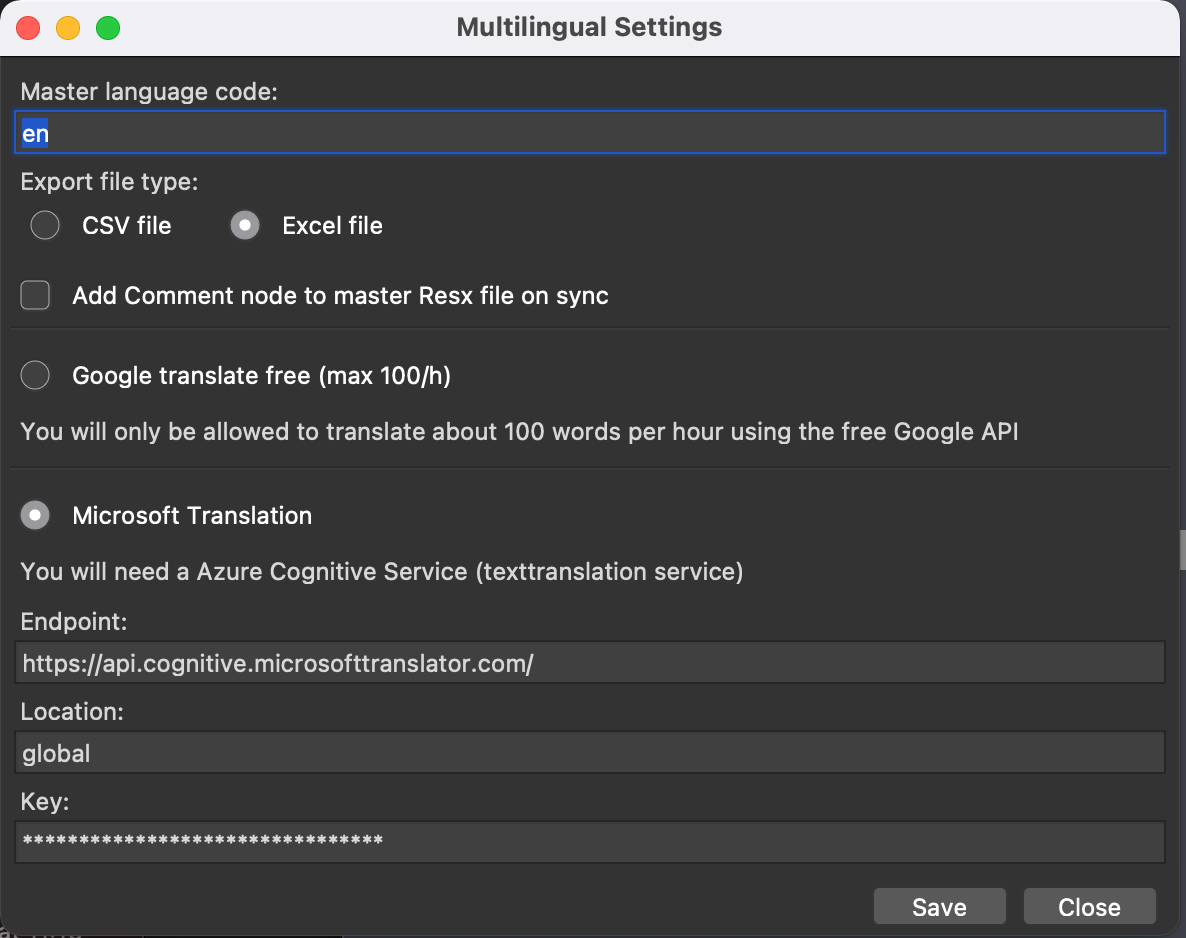
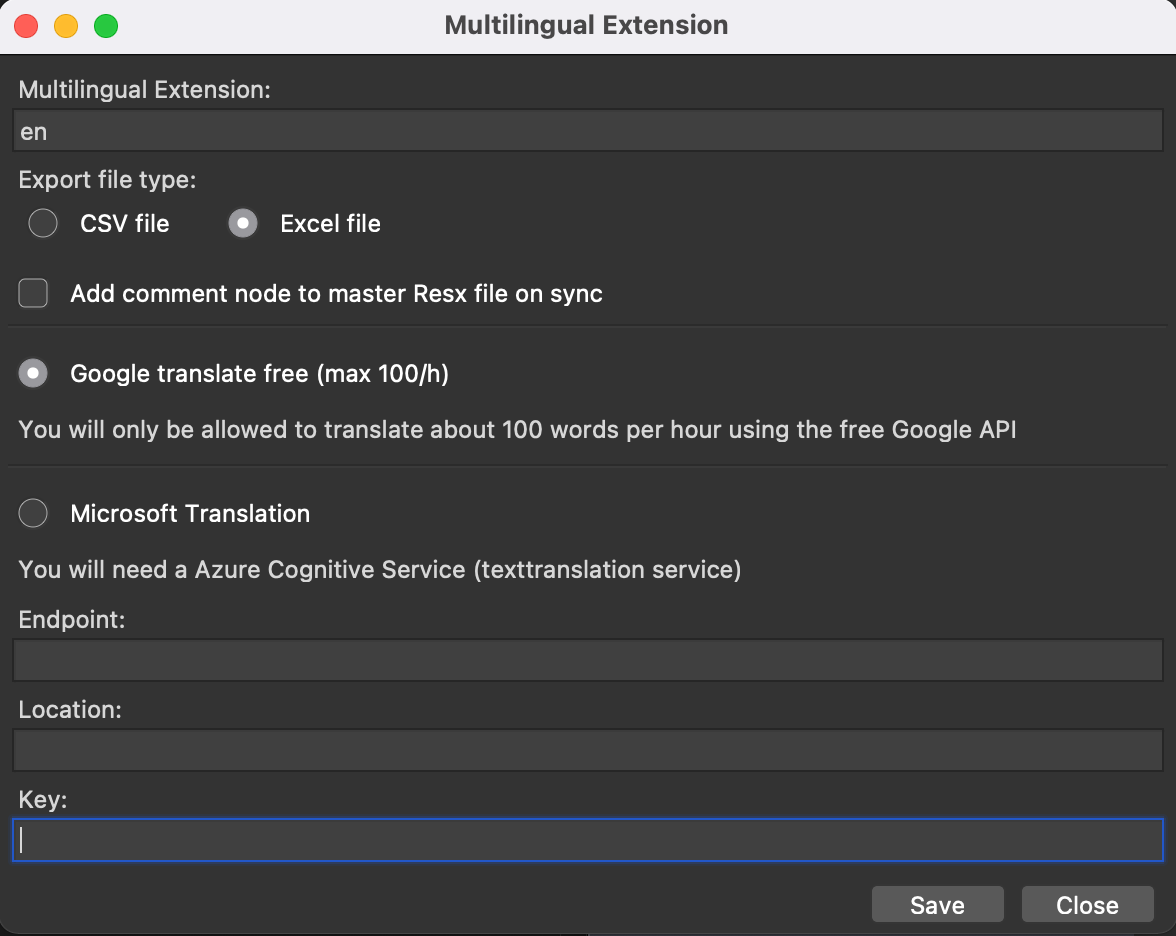
blog update

diff --git a/multilingual_extension/index.html b/multilingual_extension/index.html
@@ -11,7 +11,7 @@
     <link rel="canonical" href="https://joacimwall.github.io/multilingual_extension/">
     <link rel="shortcut icon" href="../img/favicon.ico">
     <meta name="viewport" content="width=device-width, initial-scale=1.0, maximum-scale=1.0, user-scalable=0" />
-    <title>Multilingual extension - Joacim Wall Developer Blog</title>
+    <title>Using multilingual extension in Xamarin - Joacim Wall Developer Blog</title>
     <link href="../css/bootstrap-3.3.7.min.css" rel="stylesheet">
     <link href="../css/font-awesome-4.7.0.css" rel="stylesheet">
     <link href="../css/base.css" rel="stylesheet">
@@ -32,7 +32,14 @@
       var is_top_frame = false;
         
         var pageToc = [
-          {title: "Simplify translation by using the Multilingual Extension", url: "#_top", children: [
+          {title: "Simplify translation management by using the Multilingual Extension", url: "#_top", children: [
+              {title: "Install the extension", url: "#install-the-extension" },
+              {title: "Setting the preferred property's for the extension.", url: "#setting-the-preferred-propertys-for-the-extension" },
+              {title: "Adding a new translation and synchronize", url: "#adding-a-new-translation-and-synchronize" },
+              {title: "Translate your resource files", url: "#translate-your-resource-files" },
+              {title: "Export your language files to external stakeholders", url: "#export-your-language-files-to-external-stakeholders" },
+              {title: "Import translations", url: "#import-translations" },
+              {title: "Changing existing translations", url: "#changing-existing-translations" },
           ]},
         ];
 
@@ -52,12 +59,104 @@ if (is_top_frame) { $('body').addClass('wm-top-page'); }
     
 
     
+    
+      
+    
 
-    <h2 id="simplify-translation-by-using-the-multilingual-extension">Simplify translation by using the Multilingual Extension</h2>
+  <div class="row wm-article-nav-buttons" role="navigation" aria-label="navigation">
+    
+    <div class="wm-article-nav">
+      <a href="../multilingual_support/" class="btn btn-xs btn-default pull-left">
+        <i class="fa fa-chevron-left" aria-hidden="true"></i>
+        Previous</a><a href="../multilingual_support/" class="btn btn-xs btn-link">
+        Add multilingual support to Xamarin
+      </a>
+    </div>
+    
+  </div>
+
+    
+
+    <h2 id="simplify-translation-management-by-using-the-multilingual-extension">Simplify translation management by using the Multilingual Extension</h2>
 <p>In this previous article <a href="https://joacimwall.github.io/#multilingual_support/">Add multilingual support to Xamarin</a> I show you how to add multilingual support to a Xamarin forms project. In this article I will show you how to use the <a href="https://github.com/JoacimWall/Visual-studio-multilingual-extension">Multilingual Extension</a> for simplify the synchronization from the master file to different language files. </p>
+<p><a href="https://github.com/JoacimWall/Blog_Samples/tree/main/Add%20multilingual%20support%20to%20Xamarin">Source code of Demo</a></p>
+<p>We are going to use this extension to simplify ans solve four main problem.<br />
+ * Synchronization of Resx files<br />
+ * Translation of texts by Google translate or Microsoft translate<br />
+ * Export of translations into csv or xlsx file for final translation by external stakeholder<br />
+ * Import of final translations from external stakholder  </p>
+<p>We will continue whit the same project as we started with in the previous article <a href="https://joacimwall.github.io/#multilingual_support/">Add multilingual support to Xamarin</a></p>
+<p><a href="https://github.com/JoacimWall/Blog_Samples/tree/main/Add%20multilingual%20support%20to%20Xamarin">Source code of Demo</a></p>
+<h3 id="install-the-extension">Install the extension</h3>
+<p>First we need to install the extension. below you will find the instructions for the different platforms. Remember to restart you visual studio after install for the extension to load.  </p>
+<h4 id="install-for-mac">Install for Mac</h4>
+<p>The Visual studio for Mac team has closed the signup for new developers to publish extensions. So you need to download the latest release from this page then go to visual studio mac and click "install from file" in the Exstension Mananger.<br />
+<a href="https://github.com/JoacimWall/Visual-studio-multilingual-extension/releases">Latest release</a></p>
+<h4 id="install-for-windows">Install for Windows</h4>
+<p>Go to Extension Manager and search for Multilingual Extension or Walltec and you will find it or use the link below. <br />
+<a href="https://marketplace.visualstudio.com/items?itemName=Walltec.MultilingualExtension">Multilingual extension</a></p>
+<h3 id="setting-the-preferred-propertys-for-the-extension">Setting the preferred property's for the extension.</h3>
+<p>Select tools/multilingual settings in visual studio <br />
+By default, this extension use Google's free translation lets keep that for now.  <br />
+This is limited to only 100 translations per hour. <br />
+In this dialog you can also change the master language that is 'en' by default.<br />
+Here should you also select your preferred export format, csv or xslt.<br />
+If you also want to handle the status for the texts in the master resx file, check the 'Add Comment node to master Resx file on sync' in settings dialog.</p>
+<p><img width=“150” height="400" src="https://joacimwall.github.io/img/multilingual_extension/MultilingualSettingsDialog.png"></p>
+<h3 id="adding-a-new-translation-and-synchronize">Adding a new translation and synchronize</h3>
+<p>There are two ways to sync the resx files. 
+ Right-click the master file and select "Sync all .xx-x.resx files with this". Then all files that are in the same folder and follow the naming standard .xx-xx.resx  will be synchronized with the master file or,<br />
+Right-click one of the language files (AppResources.fr-FR.resx) and select "Sync this .xx-x.resx file". This file will then be synchronized with the master file. </p>
+<p><img width=“100” height="400" src="https://joacimwall.github.io/img/multilingual_extension/SyncAllFilePopUpDialog.png">
+<img width=“100” height="400" src="https://joacimwall.github.io/img/multilingual_extension/SyncFilePopUpDialog.png"></p>
+<p>the synchronization will not only add translations to the language files it will also remove translation that are not present in the master file.</p>
+<p>So lets add a new translation "HTML is funny" into the master file this is easy done by just copy/past the last datanode from master file and change the name attribute and the value in the value filed. <br />
+Now Right-click the master file and select "Sync all .xx-x.resx files with this".  </p>
+<p><img alt="Screenshot" src="../img/multilingual_extension/add_new_data_node.png" />  </p>
+<p>Open the AppResources.fr-FR.resx and AppResources.es-ES.resx and scroll down and you will see that the sentence has bin added to these files. You will also see that the text is not translated yet and there is comment that has the value "New" on the node named HTML_Is_Funny and the node C_Sharp_Is_Love comment has value Final. The extension use the comment filed to track the status of the translation. The translation can have three different status that it can have in it's comment field.   </p>
+<p>New: The row will get this status after first synchronization. If the data row not exist in the target file. if the translation already exists then it gets the status "final" this is so you can start using this extension if you already have translation files that are translated.</p>
+<p>Need review: This status will it get after translation from one of the translation services.</p>
+<p>Final: This status will it get after import from csv/xslt file where the status column bin changed to final. You can also set this status in the target file if you don't want the row to be exported to external stakeholder for translation.</p>
+<p><img alt="Screenshot" src="../img/multilingual_extension/synced_file_sample.png" /></p>
+<h3 id="translate-your-resource-files">Translate your resource files</h3>
+<p>Now we would like to translate to different sentences you have added to your language files.  There are two ways to translate the resx files.
+Right-click the master file and select "Translate all .xx-x.resx files" Then all the language files will be Translated or Right-click one of the language files (AppResources.fr-FR.resx) and select "Translate this .xx-x.resx file".</p>
+<p>The extension will only translate values that has comment value set to "New". 
+After this your language files comment filed should changed from "New" to "Need review".   </p>
+<p><img width=“100” height="400" src="https://joacimwall.github.io/img/multilingual_extension/TranslateAllFilePopUpDialog.png">
+<img width=“100” height="400" src="https://joacimwall.github.io/img/multilingual_extension/TranslateFilePopUpDialog.png"></p>
+<h3 id="export-your-language-files-to-external-stakeholders">Export your language files to external stakeholders</h3>
+<p>If you now want to send the files to someone that not a developer you can export to Excel or Csv so they can validate the translations and change the comment value to "Final" so you can import the new/validated translation.  </p>
+<p>This is done by Right-click the master file and select "Export all .xx-xx.resx files". Then all files that are in the same folder and follow the naming standard .xx-xx.resx will be processed and all rows with status 'New' or 'Need review' will be exported. </p>
+<p>This will result in new Excel files in same folder as the resx files.  The stakeholder can now change the status to "Final" if all is correct or change the TargetLanguage and status to "Final" and tha translation will be update when you import the file.<br />
+<img alt="Screenshot" src="../img/multilingual_extension/Excel_export.png" /></p>
+<h3 id="import-translations">Import translations</h3>
+<p>When you get your translations files back from your stakeholders you just copy them to the same folder as the resx files and check that the users not have change de name of the files. Then you Right-click the Excel file and select  "Import Translation" and the file will get imported and the corresponding resx file will be updated.  </p>
+<h3 id="changing-existing-translations">Changing existing translations</h3>
+<p>If you change the text in an existing node or add a new node in the Master resx file and want to sync and translate this to all the language files. Right click somewhere on the data name = 'xxxxx' node and select "Sync and translate this node in all .xx-xx.resx files". This will translate this node in all language files and change status to "Need review". This feature is only implemented on mac in current version of the extension.           <br />
+<img alt="Screenshot" src="../img/multilingual_extension/SyncAndTranslateThisNode.png" /></p>
+<p>Thanks Joacim Wall  </p>
+<p><a href="https://github.com/JoacimWall/Blog_Samples/tree/main/Add%20multilingual%20support%20to%20Xamarin">Source code of Demo</a></p>
 
   <br>
     
+
+    
+    
+      
+    
+
+  <div class="row wm-article-nav-buttons" role="navigation" aria-label="navigation">
+    
+    <div class="wm-article-nav">
+      <a href="../multilingual_support/" class="btn btn-xs btn-default pull-left">
+        <i class="fa fa-chevron-left" aria-hidden="true"></i>
+        Previous</a><a href="../multilingual_support/" class="btn btn-xs btn-link">
+        Add multilingual support to Xamarin
+      </a>
+    </div>
+    
+  </div>
 
     <br>
 </div>

diff --git a/multilingual_support/index.html b/multilingual_support/index.html
@@ -37,6 +37,8 @@
           ]},
           {title: "Now lets add some translations", url: "#now-lets-add-some-translations", children: [
           ]},
+          {title: "Select preferred language", url: "#select-preferred-language", children: [
+          ]},
         ];
 
     </script>
@@ -61,6 +63,16 @@ if (is_top_frame) { $('body').addClass('wm-top-page'); }
 
   <div class="row wm-article-nav-buttons" role="navigation" aria-label="navigation">
     
+    <div class="wm-article-nav pull-right">
+      <a href="../multilingual_extension/" class="btn btn-xs btn-default pull-right">
+        Next
+        <i class="fa fa-chevron-right" aria-hidden="true"></i>
+      </a>
+      <a href="../multilingual_extension/" class="btn btn-xs btn-link">
+        Using multilingual extension in Xamarin
+      </a>
+    </div>
+    
     <div class="wm-article-nav">
       <a href=".." class="btn btn-xs btn-default pull-left">
         <i class="fa fa-chevron-left" aria-hidden="true"></i>
@@ -75,13 +87,14 @@ if (is_top_frame) { $('body').addClass('wm-top-page'); }
 
     <h2 id="adding-multilingual-support-to-xamarin">Adding multilingual support to Xamarin</h2>
 <p>In this article I will show you how to add multilingual support to a Xamarin forms project. We will use standard Resources files to handle the different languages and in part 2 I will show you how to use the <a href="https://github.com/JoacimWall/Visual-studio-multilingual-extension">Multilingual Extension</a> for simplify the synchronization from the master file to different language files. </p>
+<p><a href="https://github.com/JoacimWall/Blog_Samples/tree/main/Add%20multilingual%20support%20to%20Xamarin">Source code of Demo</a></p>
 <h3 id="lets-get-started">Lets get started</h3>
 <p>Screenshots in this article is from Visual Studio For Mac but the process is the same for the Windows version of Visual Studio.  Create a Xamarin project by select the template "Blank Forms App"
 I will name this app MLDemo and press Next and then create in the next dialog.
 <img alt="Screenshot" src="../img/multilingual_support/create_project.png" /></p>
 <p>Now lets create a new folder named Resources then right click and add a new Resources file to that folder named AppResources and press new.
 <img alt="Screenshot" src="../img/multilingual_support/add_appresoruce_file.png" /></p>
-<p>Now you should have project structure and a AppResources.resx file looking like this. This resx file is you master language file and it's from this file we will synchronize the translations to the other languages files files. If you created the resx file on Windows computer you will also se the xsd part of the file this is the rolls for the resx file like that you are not allowed to att to data filed with the same name. On mac you will not get this validations. </p>
+<p>Now you should have project structure and a AppResources.resx file looking like this on Mac on Windows the default viewer for resource files that will show you just three columns like Excel. If you right click the file and select view in Xaml editor in Windows you will see the raw content of the file. This resx file is you master language file and it's from this file we will synchronize the translations to the other languages files files. If you created the resx file on Windows computer you will also se the xsd part of the file this is the rolls for the resx file like that you are not allowed to att to data filed with the same name. On mac you will not get this validations. </p>
 <p><img alt="Screenshot" src="../img/multilingual_support/project_structure_1.png" /></p>
 <p>Set the natural language of you app by right click the shared project and select options. then under MetaData/details select English or other preferred language that reflect you master file. In this demo I select English (United States). <br />
 <img alt="Screenshot" src="../img/multilingual_support/select_natural_language.png" /></p>
@@ -91,11 +104,11 @@ AppResources.fr-FR.resx for French
 AppResources.es-ES.resx for Spanish</p>
 <p>Important is that we keep the same name as the master resx file in this case AppResources.resx.</p>
 <p>For a list of culture codes see <a href="https://github.com/JoacimWall/Visual-studio-multilingual-extension">language codes</a>.</p>
-<p>For the intellisense to work the master file needs a AppResources.Designer.cs file. Under property's change Custom Tool to PublicResxFileCodeGenerator. I like to remove the Designer.cs file for the other language files to keep it cleaner as you se in the MLDemo.csproj file.  </p>
+<p>For the intellisense to work the master file needs a AppResources.Designer.cs file. Under property's change Custom Tool to PublicResxFileCodeGenerator. I like to remove the Designer.cs file for the other language files to keep it cleaner as you see in the MLDemo.csproj file.  </p>
 <p><img alt="Screenshot" src="../img/multilingual_support/project_file_no_design_files.png" /></p>
 <h2 id="now-lets-add-some-translations">Now lets add some translations</h2>
 <p>In the master file (AppResources.resx) we add the data block. Where the "name" attribute is what we are going to use when i reference it in code.
-In the value tag we write the sentence.
+In the value tag we write the sentence on Windows we just add the values to the columns.
 We do the same for the French and Spanish file But we replace the text in the value filed with translated text in French and Spanish.    <br />
 <img alt="Screenshot" src="../img/multilingual_support/add_translation_to_resfiles.png" /></p>
 <p>To use the translation in c# files or from you xaml files you just build one time and the AppResources.Designer.cs will be created.  </p>
@@ -104,7 +117,16 @@ We do the same for the French and Spanish file But we replace the text in the va
 <p>And from xaml </p>
 <p>You add the namespace and then bind the text in the label.<br />
 <img alt="Screenshot" src="../img/multilingual_support/xaml_code.png" /></p>
-<p>In the next Article i will show how to simplify management of synchronize and auto translation with Google or Microsoft services using <a href="https://github.com/JoacimWall/Visual-studio-multilingual-extension">Multilingual Extension</a>.</p>
+<h2 id="select-preferred-language">Select preferred language</h2>
+<p>If you like the user to be able to select language that are not the language that are set on the device you can set it by using this lines.<br />
+In the MLDemo App.xaml.cs I have added this lines to hard set the translation to French 
+Thread.CurrentThread.CurrentUICulture = new CultureInfo("fr-FR");<br />
+Thread.CurrentThread.CurrentCulture = Thread.CurrentThread.CurrentUICulture;<br />
+MLDemo.Resources.AppResources.Culture = Thread.CurrentThread.CurrentUICulture;</p>
+<p>if the users device language is not int the list of translations then the app will use the master files translations.</p>
+<p>In the next Article i will show how to simplify management of synchronize and auto translation with Google or Microsoft services using <a href="https://github.com/JoacimWall/Visual-studio-multilingual-extension">Multilingual Extension</a>.  </p>
+<p>Thanks Joacim Wall</p>
+<p><a href="https://github.com/JoacimWall/Blog_Samples/tree/main/Add%20multilingual%20support%20to%20Xamarin">Source code of Demo</a></p>
 
   <br>
     
@@ -115,6 +137,16 @@ We do the same for the French and Spanish file But we replace the text in the va
     
 
   <div class="row wm-article-nav-buttons" role="navigation" aria-label="navigation">
+    
+    <div class="wm-article-nav pull-right">
+      <a href="../multilingual_extension/" class="btn btn-xs btn-default pull-right">
+        Next
+        <i class="fa fa-chevron-right" aria-hidden="true"></i>
+      </a>
+      <a href="../multilingual_extension/" class="btn btn-xs btn-link">
+        Using multilingual extension in Xamarin
+      </a>
+    </div>
     
     <div class="wm-article-nav">
       <a href=".." class="btn btn-xs btn-default pull-left">

diff --git a/index.html b/index.html
@@ -96,6 +96,8 @@ if (is_top_frame) { $('body').addClass('wm-top-page'); }
 </li>
         <li class="wm-toc-li wm-toc-lev1 "><a href="multilingual_support/" class="wm-article-link wm-toc-text">Add multilingual support to Xamarin</a>
 </li>
+        <li class="wm-toc-li wm-toc-lev1 "><a href="multilingual_extension/" class="wm-article-link wm-toc-text">Using multilingual extension in Xamarin</a>
+</li>
   </ul>
 </nav>
 
@@ -167,5 +169,5 @@ or if you interested browse my code samples you can view them on GitHub <a href=
 </html>
 <!--
 MkDocs version : 1.1.2
-Build Date UTC : 2021-01-09 14:00:44.151929+00:00
+Build Date UTC : 2021-01-11 12:49:27.857186+00:00
 -->

diff --git a/blog_source/docs/multilingual_extension.md b/blog_source/docs/multilingual_extension.md
@@ -1,6 +1,8 @@
 ## Simplify translation management by using the Multilingual Extension
 In this previous article [Add multilingual support to Xamarin](https://joacimwall.github.io/#multilingual_support/) I show you how to add multilingual support to a Xamarin forms project. In this article I will show you how to use the [Multilingual Extension](https://github.com/JoacimWall/Visual-studio-multilingual-extension) for simplify the synchronization from the master file to different language files. 
 
+[Source code of Demo](https://github.com/JoacimWall/Blog_Samples/tree/main/Add%20multilingual%20support%20to%20Xamarin)
+
 We are going to use this extension to simplify ans solve four main problem.  
  * Synchronization of Resx files  
  * Translation of texts by Google translate or Microsoft translate  
@@ -24,11 +26,13 @@ Go to Extension Manager and search for Multilingual Extension or Walltec and you
 
 ### Setting the preferred property's for the extension. 
 Select tools/multilingual settings in visual studio   
-By default, this extension use Google's free translation. This is limited to only 100 translations per hour. To use the Microsoft translation service, select tools/multilangual settings in the visual studio and fill in the information from Microsoft. In this dialog you can also change the master language that is 'en' by default.
-Here should you also select your preferd export format, csv or xslt.
+By default, this extension use Google's free translation lets keep that for now.    
+This is limited to only 100 translations per hour.   
+In this dialog you can also change the master language that is 'en' by default.  
+Here should you also select your preferred export format, csv or xslt.  
 If you also want to handle the status for the texts in the master resx file, check the 'Add Comment node to master Resx file on sync' in settings dialog.
 
-<img width=“150” height="300" src="https://github.com/JoacimWall/Visual-studio-multilingual-extension/blob/main/Images/MultilingualSettingsDialog.png">
+<img width=“150” height="400" src="https://joacimwall.github.io/img/multilingual_extension/MultilingualSettingsDialog.png">
 
 ### Adding a new translation and synchronize
  There are two ways to sync the resx files. 
@@ -40,8 +44,47 @@ Right-click one of the language files (AppResources.fr-FR.resx) and select "Sync
 
 the synchronization will not only add translations to the language files it will also remove translation that are not present in the master file.
 
-So lets add a new translation "HTML is funny" into the master file this is easy done by just copy/past the last datanode from master file and change the name attribute and the value in the value filed.    
+So lets add a new translation "HTML is funny" into the master file this is easy done by just copy/past the last datanode from master file and change the name attribute and the value in the value filed.   
+Now Right-click the master file and select "Sync all .xx-x.resx files with this".  
+  
+![Screenshot](img/multilingual_extension/add_new_data_node.png)  
 
+Open the AppResources.fr-FR.resx and AppResources.es-ES.resx and scroll down and you will see that the sentence has bin added to these files. You will also see that the text is not translated yet and there is comment that has the value "New" on the node named HTML_Is_Funny and the node C_Sharp_Is_Love comment has value Final. The extension use the comment filed to track the status of the translation. The translation can have three different status that it can have in it's comment field.   
 
+New: The row will get this status after first synchronization. If the data row not exist in the target file. if the translation already exists then it gets the status "final" this is so you can start using this extension if you already have translation files that are translated.
 
-           
+Need review: This status will it get after translation from one of the translation services.
+
+Final: This status will it get after import from csv/xslt file where the status column bin changed to final. You can also set this status in the target file if you don't want the row to be exported to external stakeholder for translation.
+
+![Screenshot](img/multilingual_extension/synced_file_sample.png)
+
+### Translate your resource files
+Now we would like to translate to different sentences you have added to your language files.  There are two ways to translate the resx files.
+Right-click the master file and select "Translate all .xx-x.resx files" Then all the language files will be Translated or Right-click one of the language files (AppResources.fr-FR.resx) and select "Translate this .xx-x.resx file".
+
+The extension will only translate values that has comment value set to "New". 
+After this your language files comment filed should changed from "New" to "Need review".   
+
+<img width=“100” height="400" src="https://joacimwall.github.io/img/multilingual_extension/TranslateAllFilePopUpDialog.png">
+<img width=“100” height="400" src="https://joacimwall.github.io/img/multilingual_extension/TranslateFilePopUpDialog.png">
+
+### Export your language files to external stakeholders
+If you now want to send the files to someone that not a developer you can export to Excel or Csv so they can validate the translations and change the comment value to "Final" so you can import the new/validated translation.  
+
+This is done by Right-click the master file and select "Export all .xx-xx.resx files". Then all files that are in the same folder and follow the naming standard .xx-xx.resx will be processed and all rows with status 'New' or 'Need review' will be exported. 
+
+This will result in new Excel files in same folder as the resx files.  The stakeholder can now change the status to "Final" if all is correct or change the TargetLanguage and status to "Final" and tha translation will be update when you import the file.  
+![Screenshot](img/multilingual_extension/Excel_export.png)
+
+### Import translations   
+ When you get your translations files back from your stakeholders you just copy them to the same folder as the resx files and check that the users not have change de name of the files. Then you Right-click the Excel file and select  "Import Translation" and the file will get imported and the corresponding resx file will be updated.  
+
+### Changing existing translations
+ If you change the text in an existing node or add a new node in the Master resx file and want to sync and translate this to all the language files. Right click somewhere on the data name = 'xxxxx' node and select "Sync and translate this node in all .xx-xx.resx files". This will translate this node in all language files and change status to "Need review". This feature is only implemented on mac in current version of the extension.             
+![Screenshot](img/multilingual_extension/SyncAndTranslateThisNode.png)
+
+Thanks Joacim Wall  
+
+[Source code of Demo](https://github.com/JoacimWall/Blog_Samples/tree/main/Add%20multilingual%20support%20to%20Xamarin)
+

diff --git a/blog_source/docs/multilingual_support.md b/blog_source/docs/multilingual_support.md
@@ -68,6 +68,8 @@ if the users device language is not int the list of translations then the app wi
 
 In the next Article i will show how to simplify management of synchronize and auto translation with Google or Microsoft services using [Multilingual Extension](https://github.com/JoacimWall/Visual-studio-multilingual-extension).  
 
+Thanks Joacim Wall
+
 [Source code of Demo](https://github.com/JoacimWall/Blog_Samples/tree/main/Add%20multilingual%20support%20to%20Xamarin)
 
            
